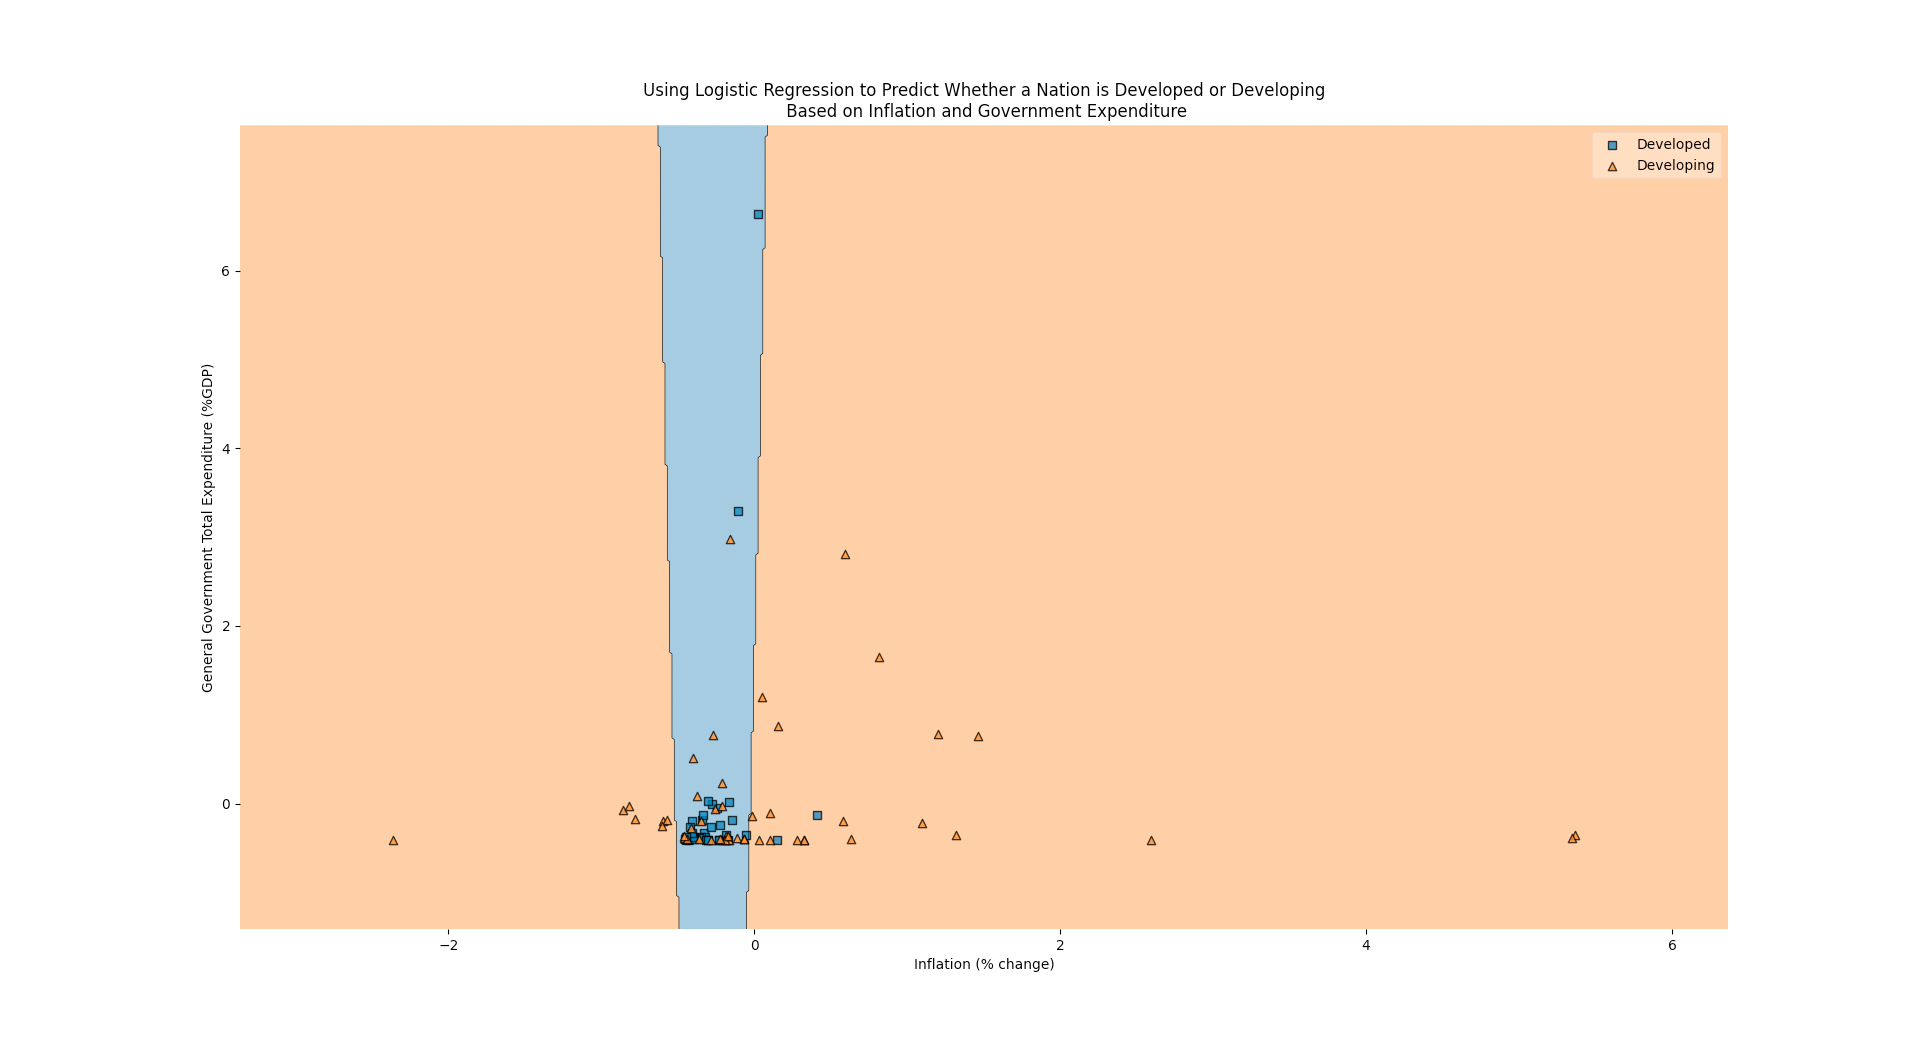
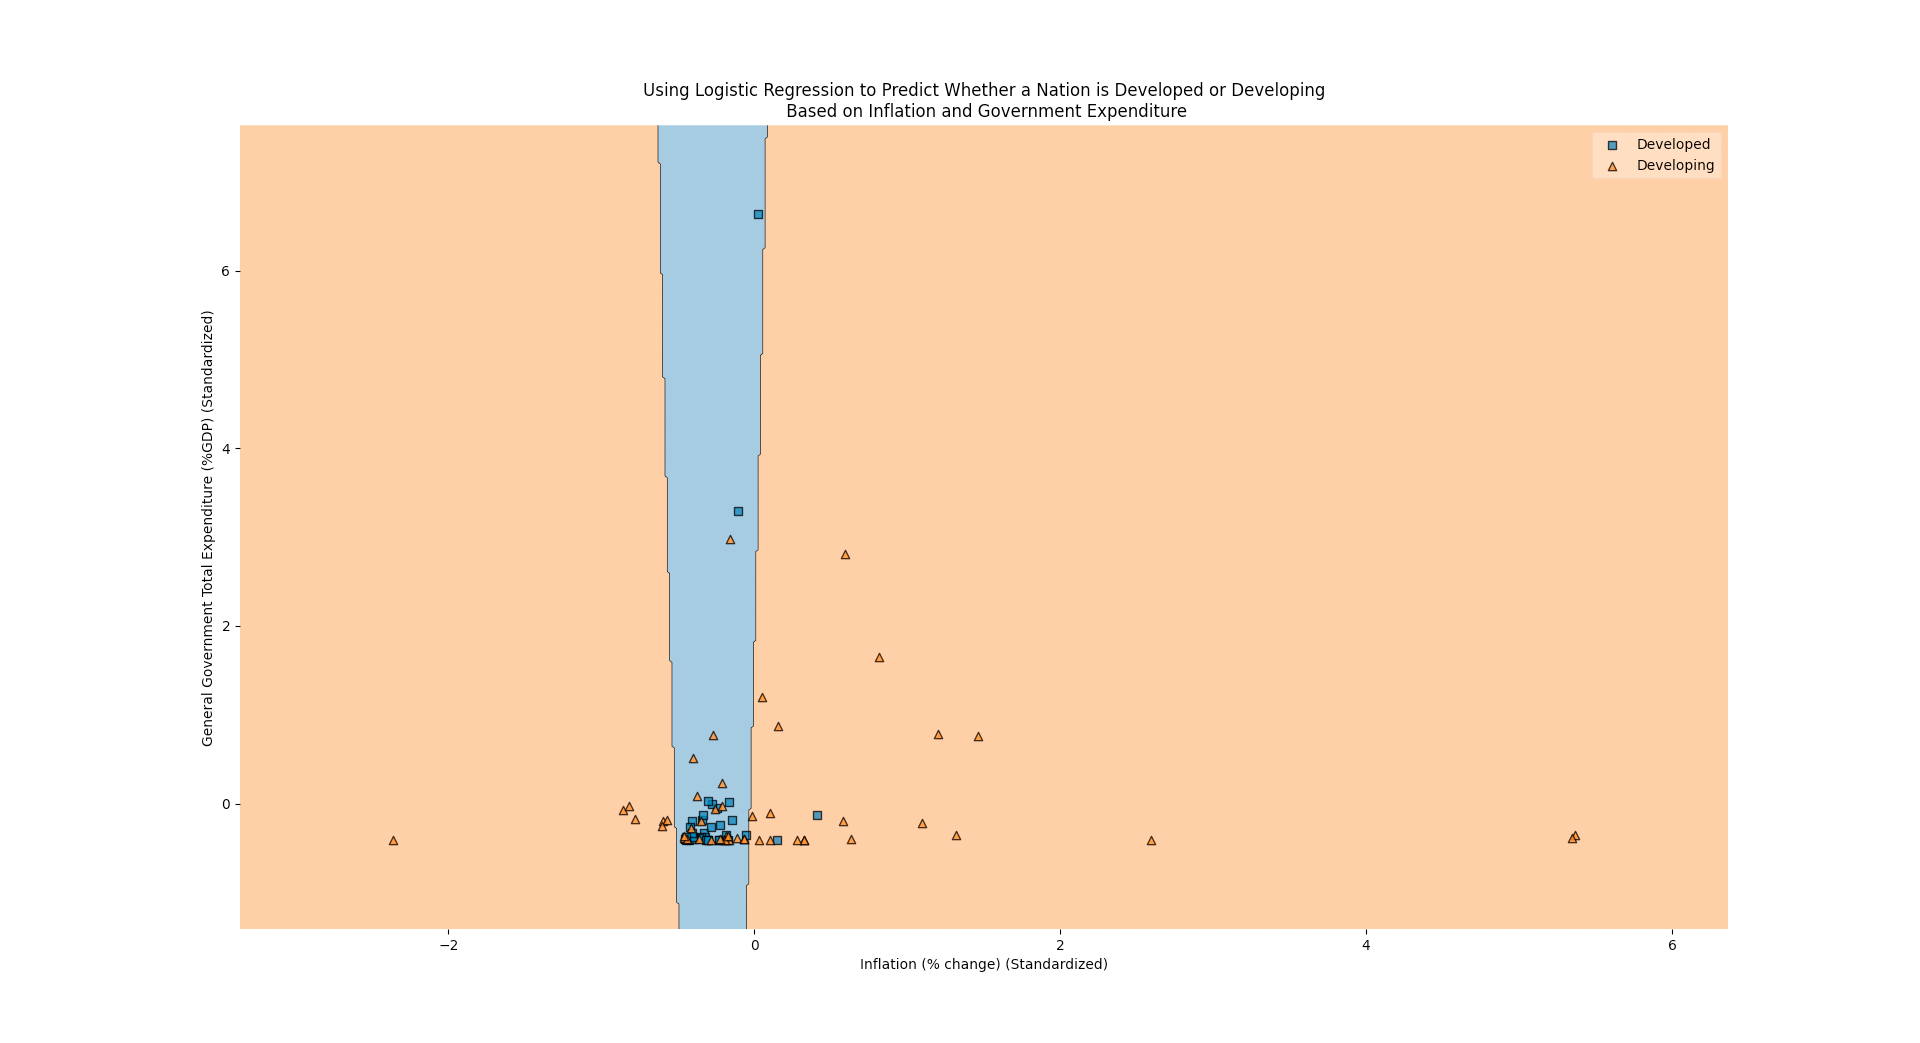
Added comments

diff --git a/log_reg_runner.py b/log_reg_runner.py
@@ -1,6 +1,3 @@
-# Don't change these imports. Note that the last two are the
-# class implementations that you will implement in
-# T2_P3_LogisticRegression.py and T2_P3_GaussianGenerativeModel.py
 import numpy as np
 import pandas as pd
 import matplotlib.pyplot as plt
@@ -15,12 +12,6 @@ from sklearn.preprocessing import StandardScaler
 eta = 0.001 # Learning rate
 lam = 0.0001 # Lambda for regularization
 
-# Whether or not you want the plots to be displayed
-show_charts = True
-
-# -----------------------------------------------------------------
-
-# Visualize the decision boundary that a model produces
 def visualize_boundary(model, X, y, title, xlabel, ylabel, imgname, show, width=2):
     # Create a grid of points
     if show:
@@ -34,8 +25,7 @@ def visualize_boundary(model, X, y, title, xlabel, ylabel, imgname, show, width=
                 ['Developed', 'Developing'], 
                 framealpha=0.3, scatterpoints=1)
         plt.show()
-        plt.savefig(imgname)
-        print("Accuracy: ", model.score(x_s, y_s))
+        print("Accuracy for " + imgname + ": ", model.score(x_s, y_s))
 
 
 data = pd.read_excel(r"./math_proj.xlsx")
@@ -48,7 +38,7 @@ visualize_boundary(lr, x_s, y_s,
                     "Using Logistic Regression to Predict Whether a Nation is Developed or Developing\n Based on GDP Growth and Human Development Index", 
                     "Real GDP Growth",
                     "Human Development Index",
-                    'gdp_vs_hdi', False)
+                    'gdp_vs_hdi', True)
 
 data = pd.read_excel(r"./math_proj_2.xlsx")
 x1 = data["Inflation (% change) "].to_numpy()
@@ -58,21 +48,19 @@ x_s = np.concatenate((x1.reshape(x1.shape[0],1), x2.reshape(x2.shape[0],1)), axi
 scaler.fit(x_s)
 x_s = scaler.transform(x_s)
 y_s = data["Class"].to_numpy()
-lr = LogisticRegression(eta=eta, lam=lam, runs=5000)
+lr = LogisticRegression(eta=eta, lam=lam, runs=5000, basis="quad")
 visualize_boundary(lr, x_s, y_s, 
                     "Using Logistic Regression to Predict Whether a Nation is Developed or Developing\n Based on Inflation and Government Expenditure", 
-                    "Inflation (% change)",
-                    "General Government Total Expenditure (%GDP)",
-                    'inflation_vs_expenditure', False)
+                    "Inflation (% change) (Standardized)",
+                    "General Government Total Expenditure (%GDP) (Standardized)",
+                    'inflation_vs_expenditure', True)
 
 data = pd.read_excel(r"./math_proj_2.xlsx")
 x1 = data["Inflation (% change) "].to_numpy()
 x2 = data["General government net lending/borrowing (% GDP)"].to_numpy()
-scaler = StandardScaler()
 x_s = np.concatenate((x1.reshape(x1.shape[0],1), x2.reshape(x2.shape[0],1)), axis=1)
-scaler.fit(x_s)
 y_s = data["Class"].to_numpy()
-lr = LogisticRegression(eta=eta, lam=lam, runs=5000)
+lr = LogisticRegression(eta=eta, lam=lam, runs=5000, basis="doublequad")
 visualize_boundary(lr, x_s, y_s, 
                     "Using Logistic Regression to Predict Whether a Nation is Developed or Developing\n Based on Inflation and Government Net Lending and Borrowing", 
                     "Inflation (% change)",
@@ -92,9 +80,8 @@ visualize_boundary(lr, x_s, y_s,
                     "Using Logistic Regression to Predict Whether a Nation is Developed or Developing\n Based on Duration of Paid Maternity Leave and Government Expenditure", 
                     "Duration of Paid Maternity Leave (Standardized)",
                     "Government Expenditure (Standardized)",
-                    'maternity_vs_expenditure', False)
+                    'maternity_vs_expenditure', True)
 
-# change these parameters
 data = pd.read_excel(r"./math_proj_4.xlsx")
 x1 = data["Tech"].to_numpy()
 x2 = data["Births"].to_numpy()
@@ -108,4 +95,4 @@ visualize_boundary(lr, x_s, y_s,
                     "Using Logistic Regression to Predict Whether a Nation is Developed or Developing\n Based on Share of Female STEM Graduates and Proportion of Births Attended by Healthcare Professionals", 
                     "Share of Female STEM Graduates (Standardized)",
                     "Proportion of Births Attended by Healthcare Professionals (Standardized)",
-                    'tech_vs_births', False)
+                    'tech_vs_births', True)

diff --git a/logistic_regression.py b/logistic_regression.py
@@ -4,33 +4,37 @@ import pandas as pd
 from sklearn.preprocessing import StandardScaler
 
 class LogisticRegression:
-    def __init__(self, eta, lam, runs):
+    def __init__(self, eta, lam, runs, basis="lin"):
         self.eta = eta
         self.lam = lam
         self.runs = runs
+        self.basis = basis
 
     def fit(self, X, y):
-        # for government expenditure
-        # self.X = np.c_[np.ones(len(X)), X, X[:,0]**2]
-        # for government borrowing
-        self.X = np.c_[np.ones(len(X)), X, X[:,0]**2, X[:,1]**2]
-        #regular
-        # self.X = np.c_[np.ones(len(X)), X]
+        # adds another column to each datapoint x_n that is the first entry in x_n squared 
+        # (used for inflation vs government expenditure dataset)
+        if self.basis == "quad": self.X = np.c_[np.ones(len(X)), X, X[:,0]**2]
+        # adds two more columns to each datapoint x_n that are both entires in x_n squared 
+        # (used for inflation vs government borrowing)
+        elif self.basis == "doublequad": self.X = np.c_[np.ones(len(X)), X, X[:,0]**2, X[:,1]**2]
+        # no basis transformation
+        else: self.X = np.c_[np.ones(len(X)), X]
+
         self.len, self.feat = self.X.shape
         self.y_target = y
         self.W = np.random.rand(self.feat)
         self.loss = []
-
         self.num_runs = 0
 
-
+        # this implementation of gradient descent runs a fixed number of times, but an
+        # epsilon-based approach may also be used
         while self.num_runs < self.runs:
-            gradient_wrt_i = 0
+            gradient = 0
             for i in range(self.len):
                 z = np.dot(self.W, self.X[i])
-                gradient_wrt_i += (self.__sigmoid(z) - self.y_target[i]) * self.X[i]
-            gradient_wrt_i += self.lam * self.W
-            self.W -= self.eta * gradient_wrt_i
+                gradient += (self.__sigmoid(z) - self.y_target[i]) * self.X[i]
+            gradient += self.lam * self.W
+            self.W -= self.eta * gradient
             self.loss.append(self.__calculate_loss())
             self.num_runs += 1
 
@@ -46,14 +50,19 @@ class LogisticRegression:
             loss = loss + (self.y_target[i])*(np.log(self.__sigmoid(z))) + (1-self.y_target[i])*(np.log(1-self.__sigmoid(z)))
         return -loss + self.lam/2 * np.linalg.norm(self.W)**2
 
+    # uses the values of parameters w calculated in the fit() function to predict the class
+    # of each point x in the matrix X_pred
     def predict(self, X_pred):
         preds = []
         # for government expenditure
-        # X_pred = np.c_[np.ones(len(X_pred)), X_pred, X_pred[:,0]**2]
+        if self.basis == "quad":
+            X_pred = np.c_[np.ones(len(X_pred)), X_pred, X_pred[:,0]**2]
         # for government borrowing
-        X_pred = np.c_[np.ones(len(X_pred)), X_pred, X_pred[:,0]**2, X_pred[:,1]**2]
+        elif self.basis == "doublequad":
+            X_pred = np.c_[np.ones(len(X_pred)), X_pred, X_pred[:,0]**2, X_pred[:,1]**2]
         # regular
-        # X_pred = np.c_[np.ones(len(X_pred)), X_pred]
+        else:
+            X_pred = np.c_[np.ones(len(X_pred)), X_pred]  
         for i in range(len(X_pred)):
             z = np.dot(self.W, X_pred[i])
             sigmoid = self.__sigmoid(z)
@@ -61,22 +70,11 @@ class LogisticRegression:
             else: preds.append(0)
         return np.array(preds)
     
+    # accuracy
     def score(self, X, y_true):
         return np.count_nonzero((self.predict(X) - y_true) == 0)/len(y_true)
     
+    # plots the value of the loss function at every run
     def plot_loss(self):
         plt.plot(np.linspace(0, self.num_runs, self.num_runs), self.loss)
         plt.show()
-
-# data = pd.read_excel(r"./math_proj_3.xlsx")
-# x1 = data["Maternity"].to_numpy()
-# x2 = data["Government Expenditure"].to_numpy()
-# scaler = StandardScaler()
-# x_s = np.concatenate((x1.reshape(x1.shape[0],1), x2.reshape(x2.shape[0],1)), axis=1)
-# scaler.fit(x_s)
-# x_s = scaler.transform(x_s)
-# y_s = data["Class"].to_numpy()
-# lr = LogisticRegression(eta=0.001, lam=0.00, runs=1000)
-# lr.fit(x_s, y_s)
-# print(lr.score(x_s, y_s))
-# lr.plot_loss()
